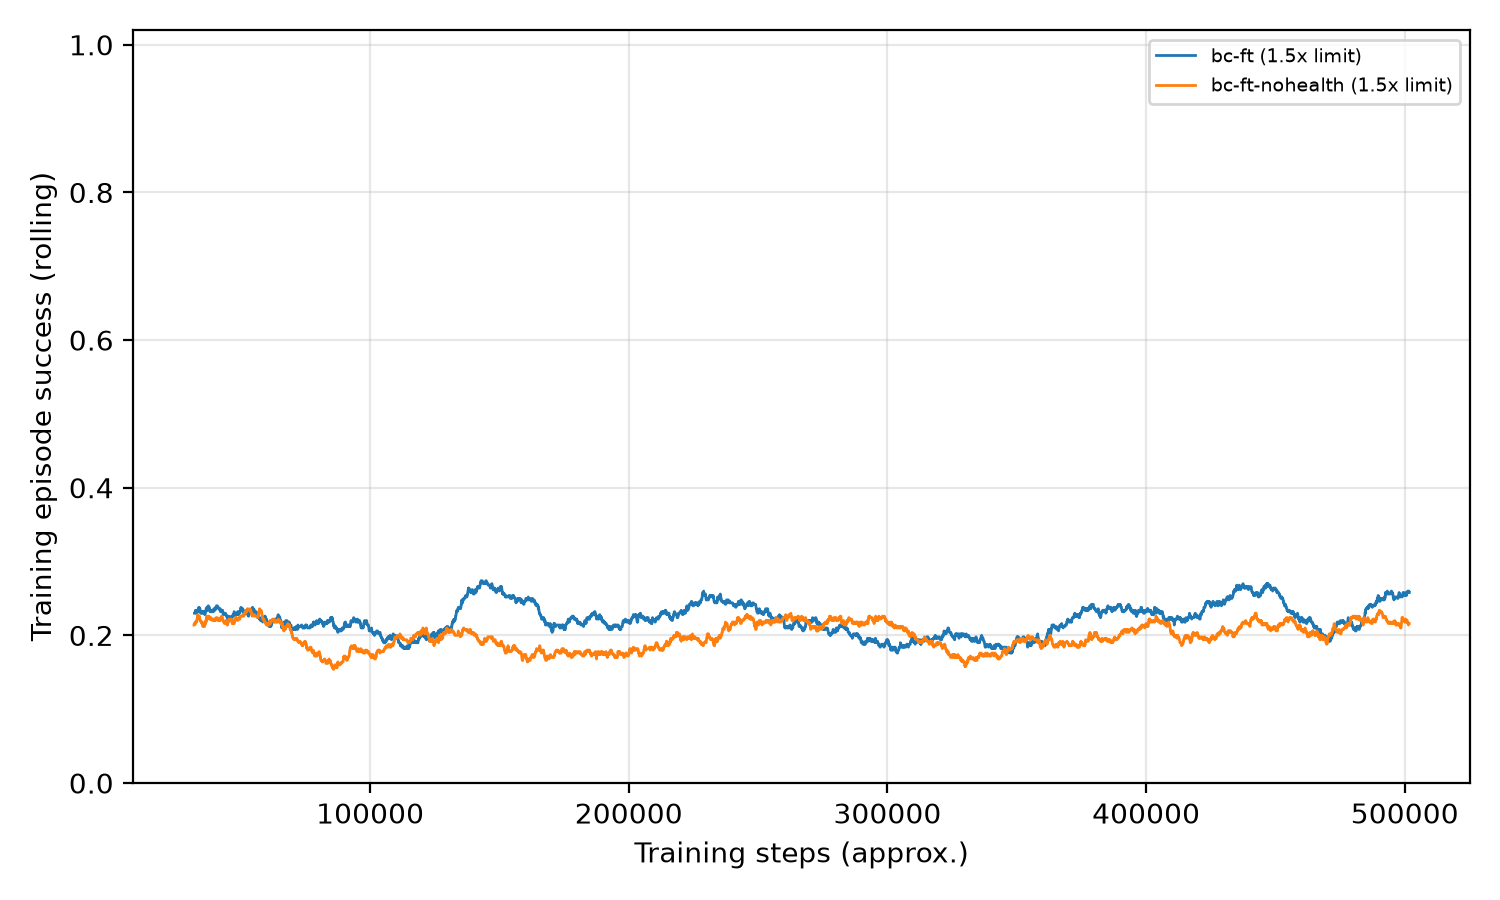
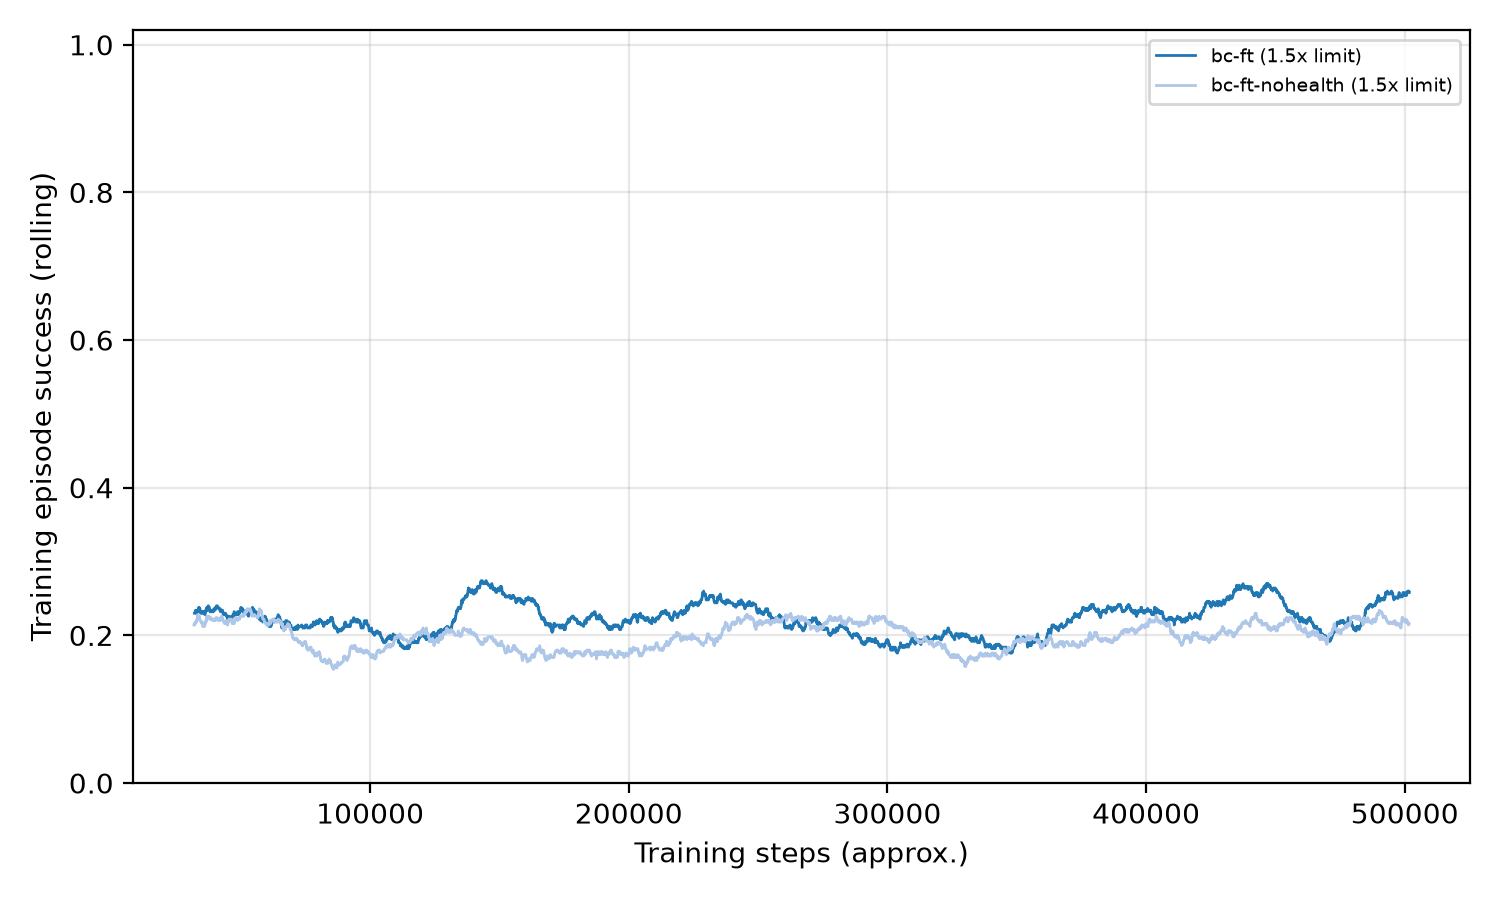
Experiment 7 final results: health-aware imitation agent beats the no-health agent by 8 points
- Upper bound: the exact deadline-optimal router reaches 0.796 on the test
  chips, health-aware A* 0.788, so health-aware A* is near-optimal here
- Plain PPO stays at 0.65-0.69 whatever the reward, deadline, inputs or
  curriculum, and does not benefit from the health map
- Imitation of health-aware A* (behaviour cloning + DAgger) with cautious
  fine-tuning: 0.740 with the health map vs 0.662 without (2 seeds each)
- Blockage chips: the two agents are level, both close to plain A*
- README: Experiment 7 section, updated summary and next steps

diff --git a/experiments/exp7_health_ppo.py b/experiments/exp7_health_ppo.py
@@ -331,7 +331,7 @@ def report():
 
     # learning curves (training episode success, env 0) of the first seed of each variant
     fig, ax = plt.subplots(figsize=(7.5, 4.5))
-    for v, ts in keys:
+    for k, (v, ts) in enumerate(keys):
         log = os.path.join(RUNS, f"{args.setting}_{v}_s{groups[(v, ts)][0]['seed']}.monitor.csv")
         if not os.path.exists(log):
             continue
@@ -342,7 +342,8 @@ def report():
         lens = np.array([float(r["l"]) for r in recs])
         w = max(1, min(500, len(s) // 10))
         ax.plot(np.cumsum(lens)[w - 1:] * args.n_envs, np.convolve(s, np.ones(w) / w, "valid"),
-                label=f"{v} ({VARIANTS[v]['slack']}x limit)", lw=1)
+                label=f"{v} ({VARIANTS[v]['slack']}x limit)", lw=1, color=plt.cm.tab20(k % 20),
+                ls="--" if VARIANTS[v]["slack"] > 1.5 else "-")
     ax.set_xlabel("Training steps (approx.)"); ax.set_ylabel("Training episode success (rolling)")
     ax.set_ylim(0, 1.02); ax.grid(alpha=0.3)
     if keys:

diff --git a/README.md b/README.md
@@ -36,7 +36,7 @@ Netaji Subhas University of Technology (NSUT) · Supervisor: Dr. Ankur Gupta
 > [!NOTE]
 > **The health-aware learned router now clearly beats the one without health.** An agent that imitates
 > health-aware A\* (behaviour cloning + DAgger) and sees the health map completes **74%** of 500 unseen test tasks,
-> against **67%** for the same agent without the health map and **64%** for plain A\*; plain PPO stays at 65–69%
+> against **66%** for the same agent without the health map and **64%** for plain A\*; plain PPO stays at 65–69%
 > however it is trained. It does not beat health-aware A\* (**79%**), and no router can by much: the exact
 > deadline-optimal router reaches only **79.6%**, so health-aware A\* is already near-optimal on this task
 > (see [Experiment 7](#experiment-7-improving-the-health-aware-ppo-agent)).
@@ -128,7 +128,7 @@ degrade and the ones no route uses.
 2. Lifetime results use dead-electrode count and used-electrode health instead of chip-wide mean health.
 3. **Make the health-aware PPO agent beat the PPO agent without health, and then health-aware A\*.**
    Done for the first part in [Experiment 7](#experiment-7-improving-the-health-aware-ppo-agent): with an imitation
-   warm start the agent that sees the health map is 7 points better than the one that doesn't. The second part is
+   warm start the agent that sees the health map is 8 points better than the one that doesn't (2 seeds each). The second part is
    not achievable on single-droplet deadline routing, where health-aware A\* is within 1 point of the best
    possible router; see [Next steps](#next-steps) for where a learned router can still win.
 
@@ -443,27 +443,28 @@ can beat it by a meaningful margin here; the realistic target is to match it.
 | 1.5× deadline + time-left channel (`time`) | ✓ | 0.690 |
 | … + move-success channel (`prob`) | ✓ | 0.654 |
 | … + health-based reward shaping (`shaping`) | ✓ | 0.676 |
-| … + curriculum from fresh to worn chips (`curriculum`) | ✓ | – |
+| … + curriculum from fresh to worn chips (`curriculum`) | ✓ | 0.684 |
 | **Imitation of health-aware A\*** (behaviour cloning + DAgger), then PPO |  |  |
-| Imitation only, no PPO | ✓ | 0.746 |
-| Imitation only, no PPO, without the health map (imitates plain A\*) |  | 0.666 |
+| Imitation only, no PPO | ✓ | 0.746 ± 0.000 (2 seeds) |
+| Imitation only, no PPO, without the health map (imitates plain A\*) |  | 0.662 ± 0.004 (2 seeds) |
 | Imitation + PPO at the normal learning rate (`bc`) | ✓ | 0.692 |
 | … with the cost-map channel too (`cost-bc`) | ✓ | 0.704 |
 | … without the health map (`bc-nohealth`) |  | 0.680 |
-| **Imitation + cautious fine-tuning, best checkpoint on validation chips (`bc-ft`)** | ✓ | **0.738** |
-| … without the health map (`bc-ft-nohealth`) |  | 0.666 |
+| **Imitation + cautious fine-tuning, best checkpoint on validation chips (`bc-ft`)** | ✓ | **0.740 ± 0.002 (2 seeds)** |
+| … without the health map (`bc-ft-nohealth`) |  | 0.662 ± 0.004 (2 seeds) |
 
 <p align="center">
   <img src="results/exp7/exp7_degraded.png" width="90%" alt="Experiment 7: test success of every variant">
 </p>
 
-- **Plain PPO stays at 0.65–0.69 whatever we change.** The reward terms, the 1.5× training deadline and the extra
-  input channels each move it by at most about 2 points, which is within the ±2-point noise of 500 test chips.
+- **Plain PPO stays at 0.65–0.69 whatever we change.** The reward terms, the 1.5× training deadline, the extra
+  input channels and the curriculum each move it by at most about 3 points, close to the ±2-point noise of
+  500 test chips and of a single seed.
   Seeing the health map still doesn't help plain PPO (0.670 with it vs 0.676 without).
 - **Imitating health-aware A\* is what makes the health map pay off.** Behaviour cloning alone reached 95% agreement
   with the expert but only 0.66 success, because it never saw the states that follow its own mistakes. With DAgger
   (the agent drives, health-aware A\* labels the states it reaches) the agent that sees the health map scores
-  **0.738** vs **0.666** without it: **+7 points, the first clear gain from the health
+  **0.740** vs **0.662** without it: **+8 points, the first clear gain from the health
   map**, and within 5 points of health-aware A\*.
 - **PPO fine-tuning at the normal learning rate undoes most of that gain** (0.746 → 0.692); PPO drifts back to its own
   plateau. Cautious fine-tuning (10× lower learning rate, no entropy bonus, keep the best checkpoint on 200
@@ -513,14 +514,14 @@ reservoir/mixer sites (`task_mode="ports"`).
 ## Next steps
 
 **Status of the health-aware PPO goal (Experiment 7).** The agent that sees the health map is now clearly better
-than the one that doesn't (74% vs 67%), but it does not beat health-aware A\* (79%), and on this task no router
+than the one that doesn't (74% vs 66%), but it does not beat health-aware A\* (79%), and on this task no router
 can by more than about 1 point.
 
 - [x] Add a health term to the reward: `degrade_penalty` and potential-based shaping with health-aware
       cost-to-go (`penalty`, `shaping`); each changes plain PPO by at most ~2 points
 - [x] Train with the same 1.5× deadline used at test time (`slack`, `time`); about +2 points with the time-left channel
 - [x] Give the agent health-aware A\*'s cost map as an extra input (`cost`, `cost-bc`): no gain on top of imitation
-- [x] Warm-start by imitating health-aware A\* (behaviour cloning + DAgger, `bc-ft`): the main gain, +7 points
+- [x] Warm-start by imitating health-aware A\* (behaviour cloning + DAgger, `bc-ft`): the main gain, +8 points
       over the no-health agent
 - [x] Curriculum over chip wear (`curriculum`); a curriculum over blockage percentage is supported
       (`--setting blockage`) but was not run
